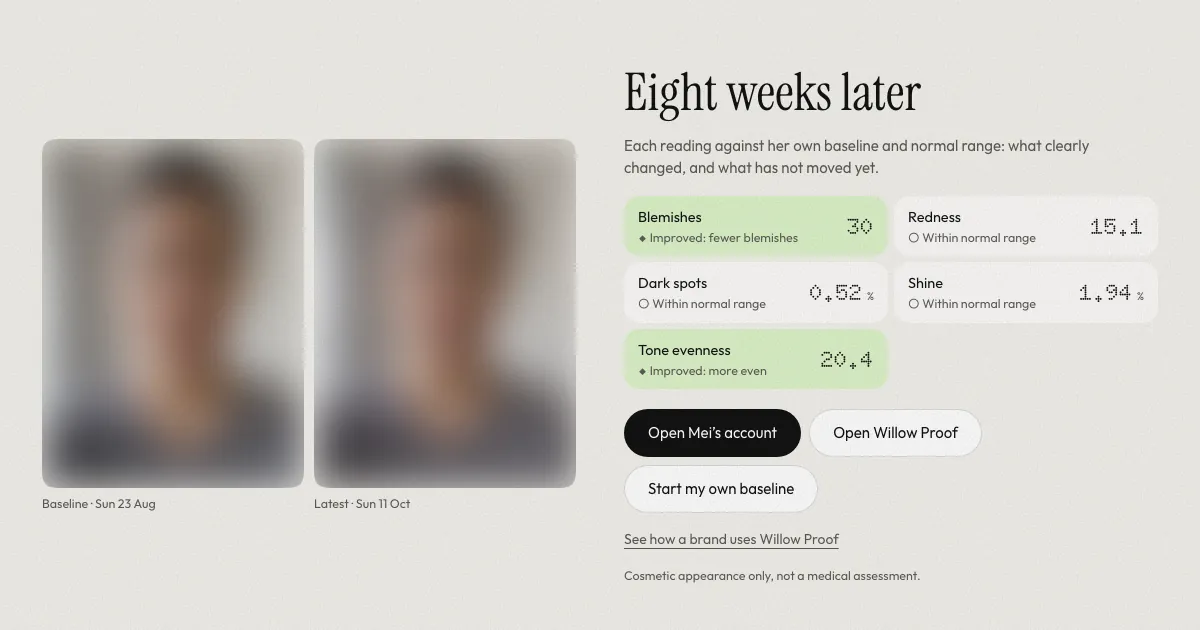
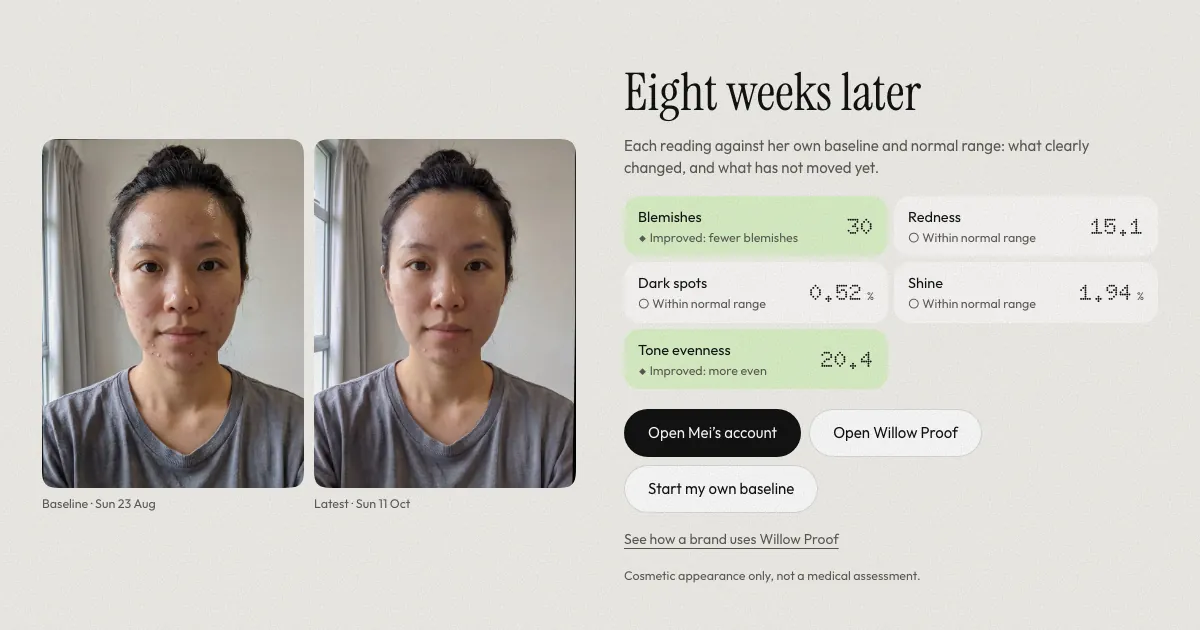
docs: README shows Mei's journey screenshot unblurred
Mei is simulated and her photos are generated, so the owner agreed to show
her face; the caption says she is simulated.

Changed region(s): [[0.0308, 0.2111, 0.4933, 0.7841]]

diff --git a/README.md b/README.md
@@ -56,8 +56,8 @@ The landing page also runs [sample photos through the real pipeline](https://mee
 **About Mei.** Mei is 26, lives in Singapore and has acne along her cheeks, jaw and chin. Her photos are generated and show no real person, so there is no consent question and nobody's skin is on display. Every number in her story was measured from those photos by Willow's live engine and explained by Gemini, exactly as for anyone. Every surface that shows her says she is simulated.
 
 <p align="center">
-  <img src="docs/img/readme/journey.webp" alt="The last slide of Mei's journey, 'Eight weeks later': blemishes and tone evenness improved beyond her normal range; redness, dark spots and shine stayed within it. Her photos are blurred in this screenshot." width="88%" />
-  <br /><sub>Mei's journey, week 8: two readings clearly improved, three stayed within her normal range. (Photos blurred for this README.)</sub>
+  <img src="docs/img/readme/journey.webp" alt="The last slide of Mei's journey, 'Eight weeks later': blemishes and tone evenness improved beyond her normal range; redness, dark spots and shine stayed within it. Her baseline and latest photos sit side by side; Mei is simulated and her photos are generated." width="88%" />
+  <br /><sub>Mei's journey, week 8: two readings clearly improved, three stayed within her normal range. Mei is simulated: her photos are generated and show no real person.</sub>
 </p>
 
 ---
